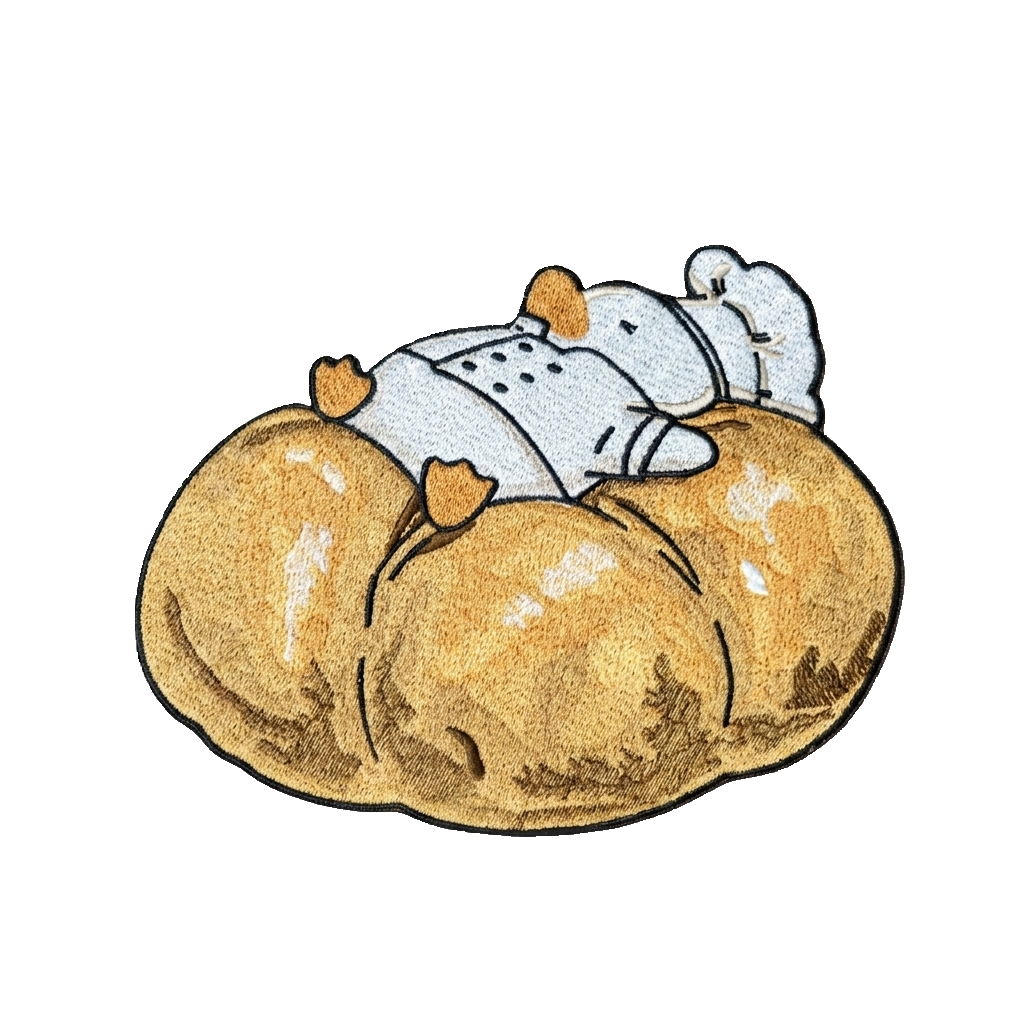
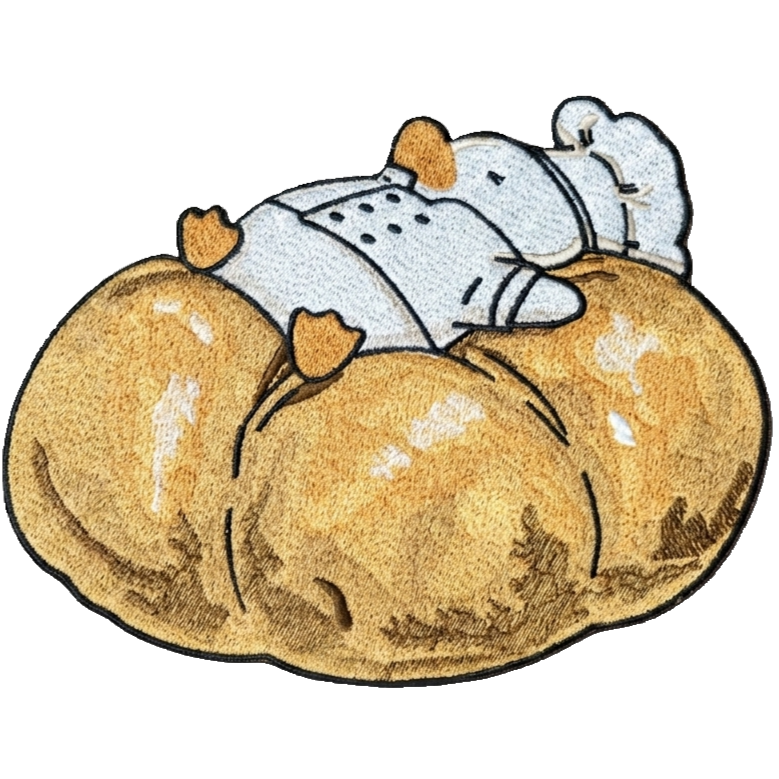
feat: worked on wildcard route and a hidden feature

diff --git a/sandbox-001/src/app/shared/components/give-us-this-day-our/give-us-this-day-our.scss b/sandbox-001/src/app/shared/components/give-us-this-day-our/give-us-this-day-our.scss
@@ -1,0 +1,20 @@
+.not-found-feature {
+    display: grid;
+    line-height: 1.2;
+    height: 100%;
+    justify-items: center;
+}
+
+.not-found-text {
+    display: grid;
+    font-size: min(12cqw, 12cqh);
+    font-family: cursive;
+    align-self: end;
+    justify-items: center;
+}
+
+.not-found-image {
+    display: grid;
+    max-width: 60vw;
+    max-height: 60vh;
+}

diff --git a/sandbox-001/src/app/shared/components/header/header.scss b/sandbox-001/src/app/shared/components/header/header.scss
@@ -1,0 +1,13 @@
+
+.buttons {
+    flex: 1;
+}
+
+.image {
+    height: 100%;
+    -webkit-tap-highlight-color: transparent;
+}
+
+.not-found-image {
+    height: 100%;
+}

diff --git a/sandbox-001/src/app/shared/components/header/header.html b/sandbox-001/src/app/shared/components/header/header.html
@@ -1,6 +1,12 @@
 
 <mat-toolbar>
-    <button matIconButton routerLink="/">
-        <mat-icon>home</mat-icon>
-    </button>
+    <div class="buttons">
+        <button matIconButton routerLink="/">
+            <mat-icon>home</mat-icon>
+        </button>
+    </div>
+    <a class="image" routerLink="/give-us-this-day-our">
+        <img class="not-found-image" src="/duck_on_bread.png">
+    </a>
+    
 </mat-toolbar>

diff --git a/sandbox-001/src/app/shared/components/give-us-this-day-our/give-us-this-day-our.ts b/sandbox-001/src/app/shared/components/give-us-this-day-our/give-us-this-day-our.ts
@@ -1,0 +1,9 @@
+import { Component } from '@angular/core';
+
+@Component({
+  selector: 'app-give-us-this-day-our',
+  imports: [],
+  templateUrl: './give-us-this-day-our.html',
+  styleUrl: './give-us-this-day-our.scss',
+})
+export class GiveUsThisDayOur {}

diff --git a/sandbox-001/src/app/shared/components/give-us-this-day-our/give-us-this-day-our.html b/sandbox-001/src/app/shared/components/give-us-this-day-our/give-us-this-day-our.html
@@ -1,0 +1,7 @@
+<div class="not-found-feature">
+    <div class="not-found-text">
+        <div>Daily Bread</div>
+        <div>일용할 양식</div>
+    </div>
+    <img class="not-found-image" src="/duck_on_bread.png">
+</div>

diff --git a/sandbox-001/src/app/app.routes.ts b/sandbox-001/src/app/app.routes.ts
@@ -2,8 +2,8 @@ import { Routes } from '@angular/router';
 import { Homepage } from './features/homepage/homepage';
 import { Christmas } from './features/christmas/christmas';
 import { MoviesAndShows } from './features/movies-and-shows/movies-and-shows';
-import { NotFound } from './shared/components/not-found/not-found';
 import { Recipes } from './features/recipes/recipes';
+import { GiveUsThisDayOur } from './shared/components/give-us-this-day-our/give-us-this-day-our';
 
 export const routes: Routes = [
     {
@@ -24,6 +24,6 @@ export const routes: Routes = [
     },
     {
         path: '**',
-        component: NotFound
+        component: GiveUsThisDayOur
     }
 ];